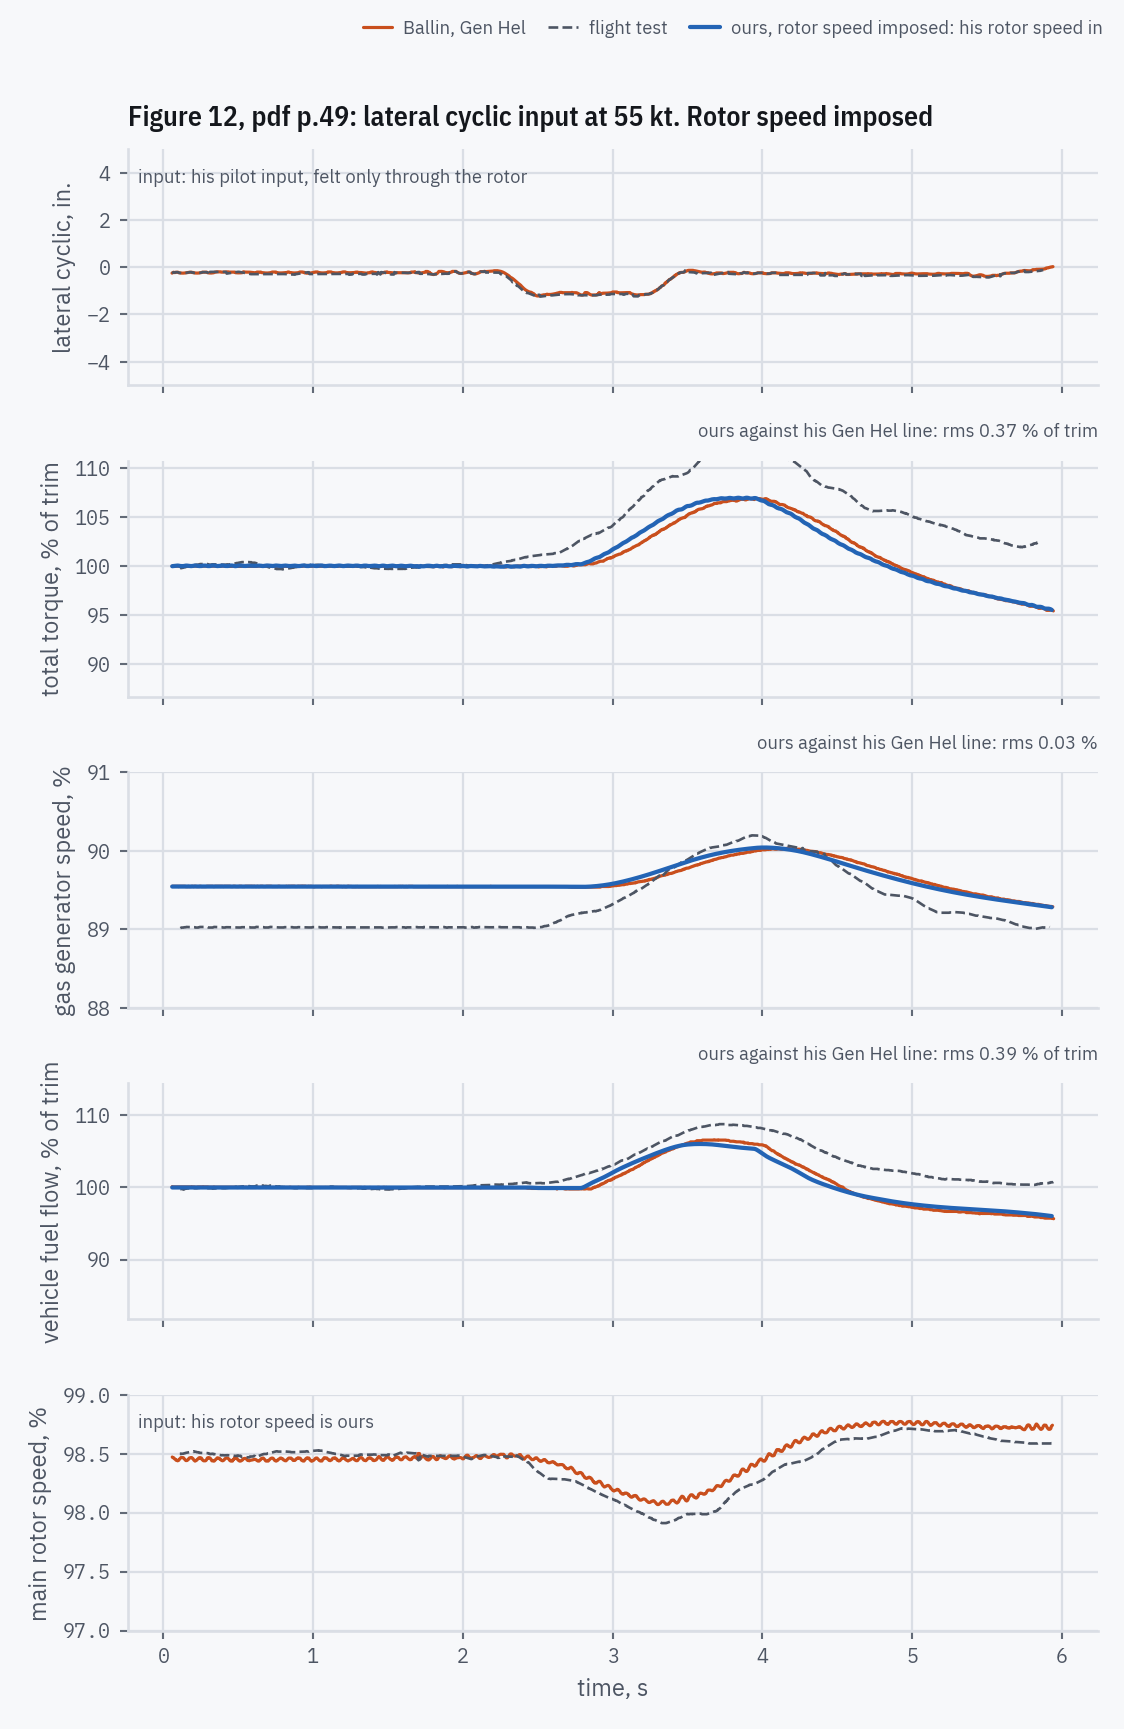
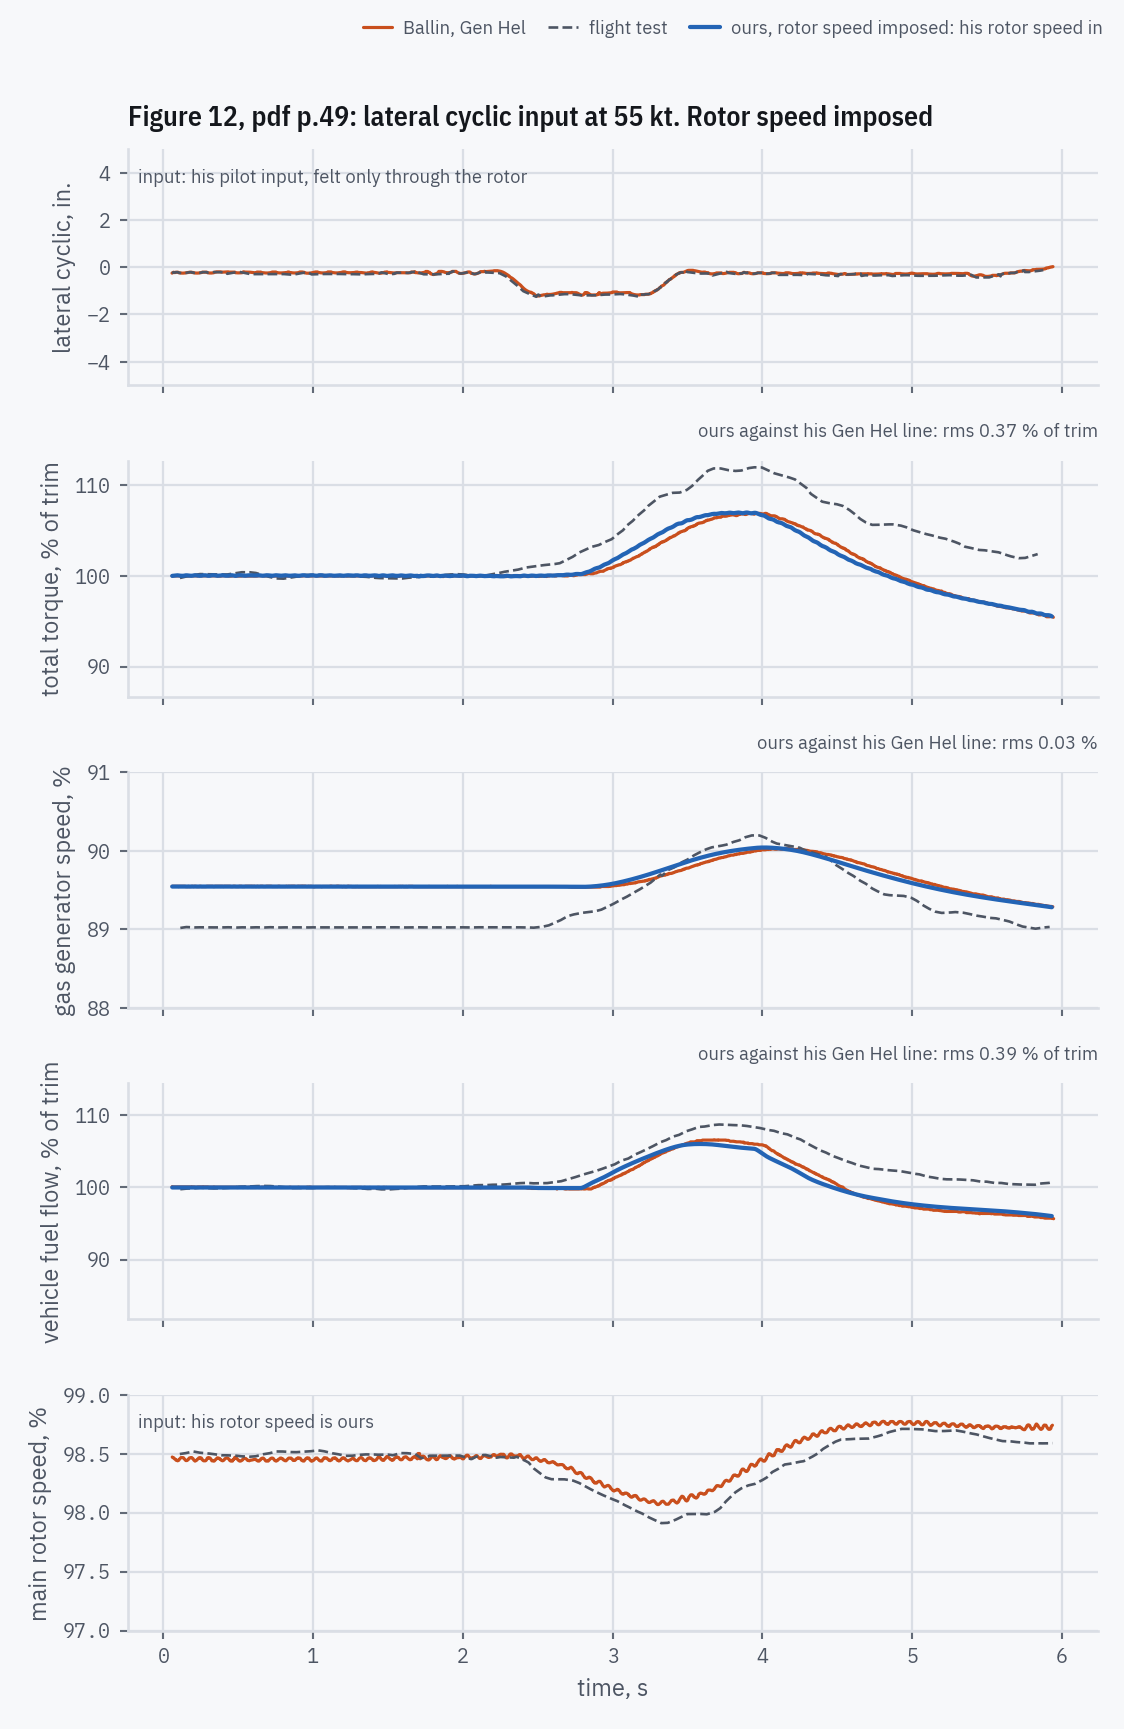
gen hel pictures: his printed range, widened only where a line leaves it
The user saw lines run off some panels. Each panel keeps his printed y range and widens past
it by 3 % of the range only where a line drawn on it leaves the range: Figure 12's
flight-test torque peaks at 112 % of trim against a 110.8 % top, and Figure 13's NG, rotor
speed imposed, dips to 91.94 against a 92 floor. Pictures and report.json also follow the
re-read flight-test lines.

Claude-Session: https://claude.ai/code/session_01RjvrKad8gE6F4A3xardmyd

Changed region(s): [[0.1557, 0.2499, 0.9342, 0.3748], [0.0623, 0.2499, 0.0934, 0.3436]]

diff --git a/validation/report.py b/validation/report.py
@@ -888,6 +888,19 @@ def _printed_range(fno: int, key: str) -> tuple[float, float]:
     raise ValueError(f"{path.name}: no axis range")
 
 
+LIMIT_PAD = 0.03
+"""Where a line leaves his printed range, the panel widens past it by this fraction of the
+range, so the whole line shows."""
+
+
+def _printed_or_wider(ax, lo: float, hi: float) -> None:
+    """His printed y range, widened only where a line drawn so far leaves it."""
+    ys = np.concatenate([np.asarray(ln.get_ydata(), float) for ln in ax.get_lines()])
+    ys = ys[np.isfinite(ys)]
+    pad = LIMIT_PAD * (hi - lo)
+    ax.set_ylim(min(lo, ys.min() - pad), max(hi, ys.max() + pad))
+
+
 def _gen_hel_picture(fno: int, rotor: str) -> None:
     """One test on one of his figures: his panels in his order, on his printed ranges (fuel and
     torque in % of trim), his Gen Hel and flight-test lines and ours. Panels that are inputs
@@ -926,10 +939,6 @@ def _gen_hel_picture(fno: int, rotor: str) -> None:
             if pct:
                 v = 100.0 * v / g.his_trim(fno, key, line)
             ax.plot(t, v, **plotstyle.line(src), label=lab)
-        lo, hi = _printed_range(fno, key)
-        if pct:
-            lo, hi = (100.0 * x / g.his_trim(fno, key) for x in (lo, hi))
-        ax.set_ylim(lo, hi)
         if key in inputs:
             note = {
                 key_in: "input: his pilot input"
@@ -945,6 +954,10 @@ def _gen_hel_picture(fno: int, rotor: str) -> None:
             _note(
                 ax, f"ours against his Gen Hel line: rms {g.rms(g.gap(fno, key, rotor)):.2f} {unit}"
             )
+        lo, hi = _printed_range(fno, key)
+        if pct:
+            lo, hi = (100.0 * x / g.his_trim(fno, key) for x in (lo, hi))
+        _printed_or_wider(ax, lo, hi)
         title = f"Figure {fno}, pdf p.{page}: {what}. {TEST_NAME[rotor].capitalize()}"
         _style(ax, "time, s" if key == rows[-1][0] else "", ylabel, title if key == key_in else "")
     handles, labels = [], []
@@ -1147,10 +1160,6 @@ def _both_tests_picture(fno: int) -> None:
         if pct:
             v = 100.0 * v / g.his_trim(fno, key)
         ax.plot(t, v, **plotstyle.line("ballin"), label="Ballin, Gen Hel")
-        lo, hi = _printed_range(fno, key)
-        if pct:
-            lo, hi = (100.0 * x / g.his_trim(fno, key) for x in (lo, hi))
-        ax.set_ylim(lo, hi)
         unit = "% of trim" if pct else "%"
         notes = []
         for rotor, ls in (("imposed", "-"), ("free", "--")):
@@ -1159,6 +1168,10 @@ def _both_tests_picture(fno: int) -> None:
             t, v = g.ours(fno, key, rotor)
             ax.plot(t, v, **plotstyle.line("ours", ls=ls), label=f"ours, {TEST_NAME[rotor]}")
             notes.append(f"{rotor} {g.rms(g.gap(fno, key, rotor)):.2f}")
+        lo, hi = _printed_range(fno, key)
+        if pct:
+            lo, hi = (100.0 * x / g.his_trim(fno, key) for x in (lo, hi))
+        _printed_or_wider(ax, lo, hi)
         _note(ax, f"rms against his Gen Hel line, {unit}: " + ", ".join(notes))
         if key == "nr":
             _note(ax, "rotor speed imposed: his, by construction", inside=True)
